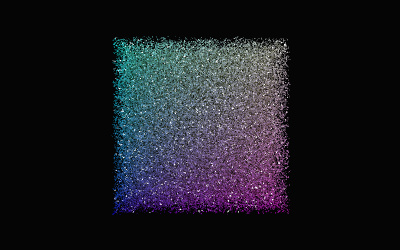
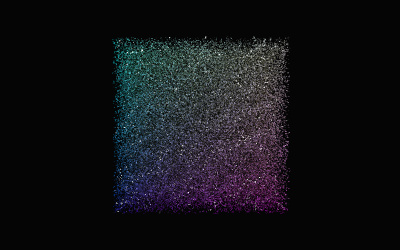
Feature: Add vertex color alpha channel support. (#20975)
* Feature: Add vertex color alpha channel support.

* Vertex alpha: Remove hasVertexAlpha from BufferGeometry

Changed region(s): [[0.27, 0.14, 0.72, 0.868]]

diff --git a/src/renderers/webgl/WebGLPrograms.js b/src/renderers/webgl/WebGLPrograms.js
@@ -38,7 +38,7 @@ function WebGLPrograms( renderer, cubemaps, extensions, capabilities, bindingSta
 		'map', 'mapEncoding', 'matcap', 'matcapEncoding', 'envMap', 'envMapMode', 'envMapEncoding', 'envMapCubeUV',
 		'lightMap', 'lightMapEncoding', 'aoMap', 'emissiveMap', 'emissiveMapEncoding', 'bumpMap', 'normalMap', 'objectSpaceNormalMap', 'tangentSpaceNormalMap', 'clearcoatMap', 'clearcoatRoughnessMap', 'clearcoatNormalMap', 'displacementMap', 'specularMap',
 		'roughnessMap', 'metalnessMap', 'gradientMap',
-		'alphaMap', 'combine', 'vertexColors', 'vertexTangents', 'vertexUvs', 'uvsVertexOnly', 'fog', 'useFog', 'fogExp2',
+		'alphaMap', 'combine', 'vertexColors', 'vertexAlpha', 'vertexTangents', 'vertexUvs', 'uvsVertexOnly', 'fog', 'useFog', 'fogExp2',
 		'flatShading', 'sizeAttenuation', 'logarithmicDepthBuffer', 'skinning',
 		'maxBones', 'useVertexTexture', 'morphTargets', 'morphNormals', 'premultipliedAlpha',
 		'numDirLights', 'numPointLights', 'numSpotLights', 'numHemiLights', 'numRectAreaLights',
@@ -208,6 +208,7 @@ function WebGLPrograms( renderer, cubemaps, extensions, capabilities, bindingSta
 
 			vertexTangents: ( material.normalMap && material.vertexTangents ),
 			vertexColors: material.vertexColors,
+			vertexAlpha: ( ( object.isMesh || object.isLine || object.isPoints ) && object.geometry.attributes.color && object.geometry.attributes.color.itemSize === 4 ),
 			vertexUvs: !! material.map || !! material.bumpMap || !! material.normalMap || !! material.specularMap || !! material.alphaMap || !! material.emissiveMap || !! material.roughnessMap || !! material.metalnessMap || !! material.clearcoatMap || !! material.clearcoatRoughnessMap || !! material.clearcoatNormalMap || !! material.displacementMap || !! material.transmissionMap,
 			uvsVertexOnly: ! ( !! material.map || !! material.bumpMap || !! material.normalMap || !! material.specularMap || !! material.alphaMap || !! material.emissiveMap || !! material.roughnessMap || !! material.metalnessMap || !! material.clearcoatNormalMap || !! material.transmissionMap ) && !! material.displacementMap,
 

diff --git a/src/renderers/WebGLRenderer.js b/src/renderers/WebGLRenderer.js
@@ -1452,6 +1452,7 @@ function WebGLRenderer( parameters ) {
 		materialProperties.instancing = parameters.instancing;
 		materialProperties.numClippingPlanes = parameters.numClippingPlanes;
 		materialProperties.numIntersection = parameters.numClipIntersection;
+		materialProperties.vertexAlpha = parameters.vertexAlpha;
 
 	}
 
@@ -1465,6 +1466,7 @@ function WebGLRenderer( parameters ) {
 		const environment = material.isMeshStandardMaterial ? scene.environment : null;
 		const encoding = ( _currentRenderTarget === null ) ? _this.outputEncoding : _currentRenderTarget.texture.encoding;
 		const envMap = cubemaps.get( material.envMap || environment );
+		const vertexAlpha = ( ( object.isMesh || object.isLine || object.isPoints ) && object.geometry.attributes.color && object.geometry.attributes.color.itemSize === 4 );
 
 		const materialProperties = properties.get( material );
 		const lights = currentRenderState.state.lights;
@@ -1519,6 +1521,10 @@ function WebGLRenderer( parameters ) {
 			} else if ( materialProperties.numClippingPlanes !== undefined &&
 				( materialProperties.numClippingPlanes !== clipping.numPlanes ||
 				materialProperties.numIntersection !== clipping.numIntersection ) ) {
+
+				needsProgramChange = true;
+
+			} else if ( materialProperties.vertexAlpha !== vertexAlpha ) {
 
 				needsProgramChange = true;
 

diff --git a/examples/webgl_buffergeometry.html b/examples/webgl_buffergeometry.html
@@ -125,9 +125,11 @@
 
 					color.setRGB( vx, vy, vz );
 
-					colors.push( color.r, color.g, color.b );
-					colors.push( color.r, color.g, color.b );
-					colors.push( color.r, color.g, color.b );
+					const alpha = Math.random();
+
+					colors.push( color.r, color.g, color.b, alpha );
+					colors.push( color.r, color.g, color.b, alpha );
+					colors.push( color.r, color.g, color.b, alpha );
 
 				}
 
@@ -139,13 +141,13 @@
 
 				geometry.setAttribute( 'position', new THREE.Float32BufferAttribute( positions, 3 ).onUpload( disposeArray ) );
 				geometry.setAttribute( 'normal', new THREE.Float32BufferAttribute( normals, 3 ).onUpload( disposeArray ) );
-				geometry.setAttribute( 'color', new THREE.Float32BufferAttribute( colors, 3 ).onUpload( disposeArray ) );
+				geometry.setAttribute( 'color', new THREE.Float32BufferAttribute( colors, 4 ).onUpload( disposeArray ) );
 
 				geometry.computeBoundingSphere();
 
 				const material = new THREE.MeshPhongMaterial( {
 					color: 0xaaaaaa, specular: 0xffffff, shininess: 250,
-					side: THREE.DoubleSide, vertexColors: true
+					side: THREE.DoubleSide, vertexColors: true, transparent: true
 				} );
 
 				mesh = new THREE.Mesh( geometry, material );

diff --git a/src/renderers/webgl/WebGLProgram.js b/src/renderers/webgl/WebGLProgram.js
@@ -472,6 +472,7 @@ function WebGLProgram( renderer, cacheKey, parameters, bindingStates ) {
 
 			parameters.vertexTangents ? '#define USE_TANGENT' : '',
 			parameters.vertexColors ? '#define USE_COLOR' : '',
+			parameters.vertexAlpha ? '#define USE_VERTEX_ALPHA' : '',
 			parameters.vertexUvs ? '#define USE_UV' : '',
 			parameters.uvsVertexOnly ? '#define UVS_VERTEX_ONLY' : '',
 
@@ -525,7 +526,15 @@ function WebGLProgram( renderer, cacheKey, parameters, bindingStates ) {
 
 			'#ifdef USE_COLOR',
 
-			'	attribute vec3 color;',
+			'	#ifdef USE_VERTEX_ALPHA',
+
+			'		attribute vec4 color;',
+
+			'	#else',
+
+			'		attribute vec3 color;',
+
+			'	#endif',
 
 			'#endif',
 
@@ -608,6 +617,7 @@ function WebGLProgram( renderer, cacheKey, parameters, bindingStates ) {
 
 			parameters.vertexTangents ? '#define USE_TANGENT' : '',
 			parameters.vertexColors || parameters.instancingColor ? '#define USE_COLOR' : '',
+			parameters.vertexAlpha ? '#define USE_VERTEX_ALPHA' : '',
 			parameters.vertexUvs ? '#define USE_UV' : '',
 			parameters.uvsVertexOnly ? '#define UVS_VERTEX_ONLY' : '',
 

diff --git a/docs/api/en/renderers/webgl/WebGLProgram.html b/docs/api/en/renderers/webgl/WebGLProgram.html
@@ -56,8 +56,13 @@
 		<div>
 		<code>
 		#ifdef USE_COLOR
-			// vertex color attribute
-			attribute vec3 color;
+			#ifdef USE_VERTEX_ALPHA
+				// vertex color attribute with alpha channel
+				attribute vec4 color;
+			#else
+				// vertex color attribute without alpha channel
+				attribute vec3 color;
+			#endif
 		#endif
 		</code>
 		<code>

diff --git a/docs/api/zh/renderers/webgl/WebGLProgram.html b/docs/api/zh/renderers/webgl/WebGLProgram.html
@@ -56,8 +56,13 @@
 		<div>
 		<code>
 		#ifdef USE_COLOR
-			// vertex color attribute
-			attribute vec3 color;
+			#ifdef USE_VERTEX_ALPHA
+				// vertex color attribute with alpha channel
+				attribute vec4 color;
+			#else
+				// vertex color attribute without alpha channel
+				attribute vec3 color;
+			#endif
 		#endif
 		</code>
 		<code>

diff --git a/src/renderers/shaders/ShaderChunk/color_vertex.glsl.js b/src/renderers/shaders/ShaderChunk/color_vertex.glsl.js
@@ -1,13 +1,21 @@
 export default /* glsl */`
 #if defined( USE_COLOR ) || defined( USE_INSTANCING_COLOR )
 
-	vColor = vec3( 1.0 );
+	#if defined( USE_VERTEX_ALPHA )
+
+		vColor = vec4( 1.0 );
+
+	#else
+
+		vColor = vec3( 1.0 );
+
+	#endif
 
 #endif
 
 #ifdef USE_COLOR
 
-	vColor.xyz *= color.xyz;
+	vColor *= color;
 
 #endif
 

diff --git a/src/renderers/shaders/ShaderChunk/color_pars_vertex.glsl.js b/src/renderers/shaders/ShaderChunk/color_pars_vertex.glsl.js
@@ -1,7 +1,15 @@
 export default /* glsl */`
 #if defined( USE_COLOR ) || defined( USE_INSTANCING_COLOR )
 
-	varying vec3 vColor;
+	#if defined( USE_VERTEX_ALPHA )
+
+		varying vec4 vColor;
+
+	#else
+
+		varying vec3 vColor;
+
+	#endif
 
 #endif
 `;

diff --git a/src/renderers/shaders/ShaderChunk/color_fragment.glsl.js b/src/renderers/shaders/ShaderChunk/color_fragment.glsl.js
@@ -1,7 +1,15 @@
 export default /* glsl */`
 #ifdef USE_COLOR
 
-	diffuseColor.rgb *= vColor;
+	#ifdef USE_VERTEX_ALPHA
+
+		diffuseColor *= vColor;
+
+	#else
+
+		diffuseColor.rgb *= vColor;
+
+	#endif
 
 #endif
 `;

diff --git a/src/renderers/shaders/ShaderChunk/color_pars_fragment.glsl.js b/src/renderers/shaders/ShaderChunk/color_pars_fragment.glsl.js
@@ -1,7 +1,15 @@
 export default /* glsl */`
 #ifdef USE_COLOR
 
-	varying vec3 vColor;
+	#if defined( USE_VERTEX_ALPHA )
+
+		varying vec4 vColor;
+
+	#else
+
+		varying vec3 vColor;
+
+	#endif
 
 #endif
 `;
